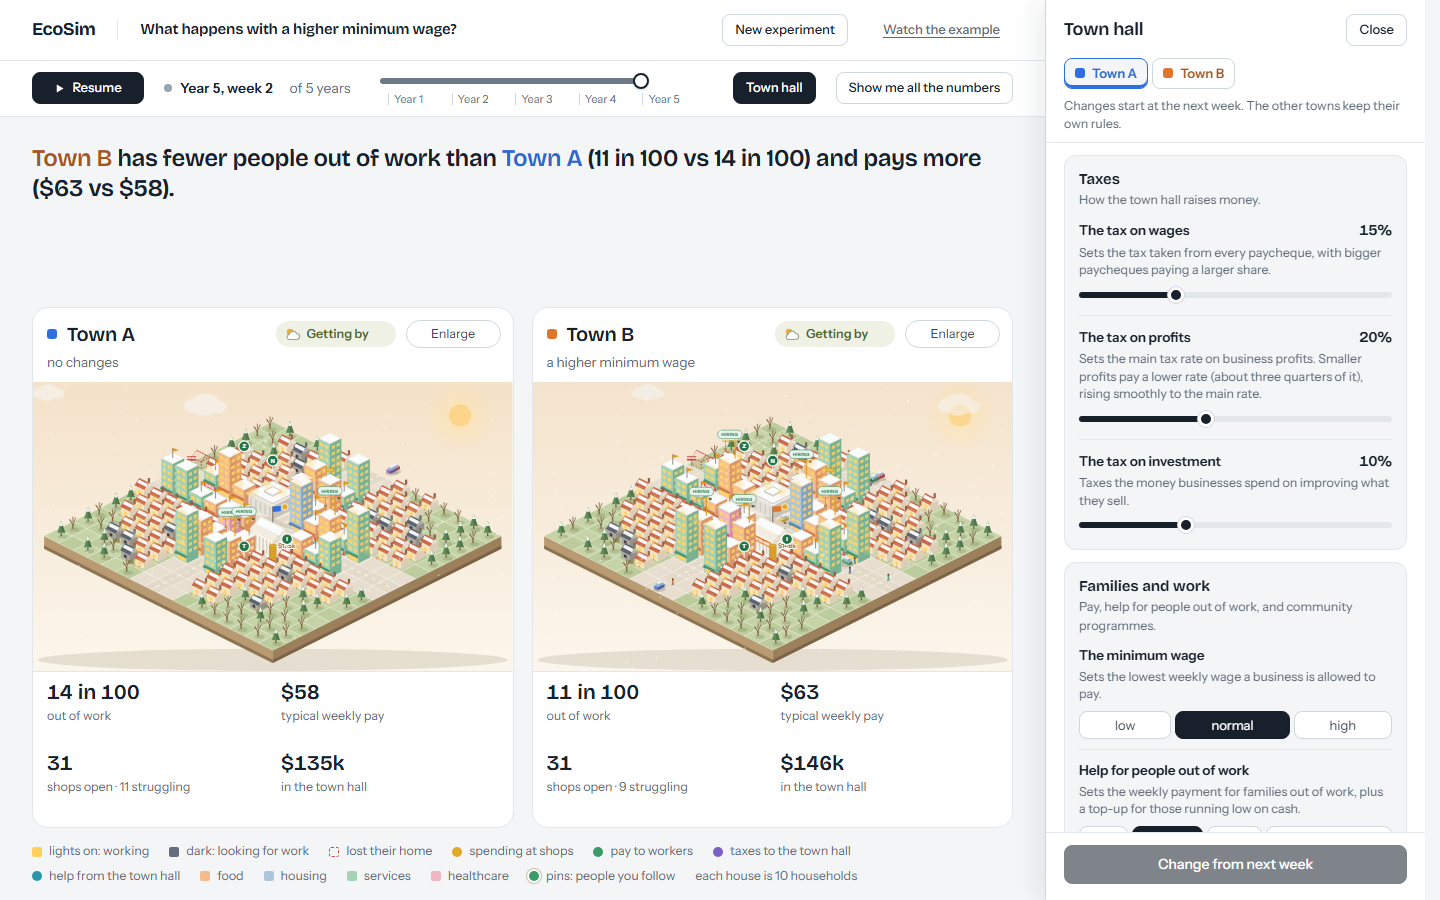
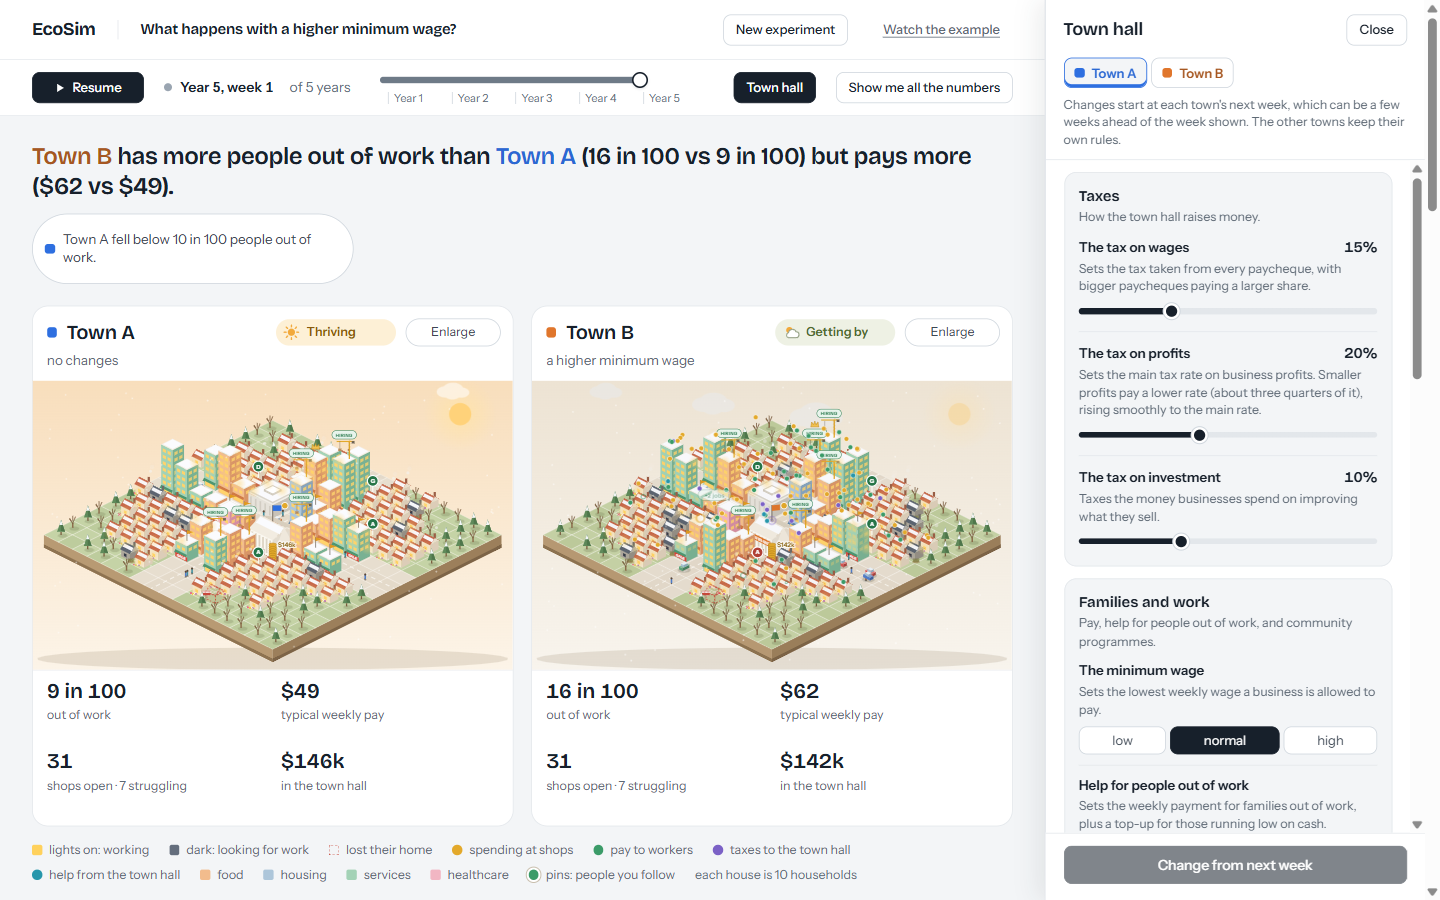
docs(readme): tighten wording and refresh town screenshots
Plainer README copy: shorter sentences, active voice, results split
into readable steps. New setup, run and town hall screenshots.

diff --git a/README.md b/README.md
@@ -5,7 +5,7 @@
 <h1 align="center">EcoSim</h1>
 
 <p align="center">
-  An agent-based economy you can run, steer, and replay, built to test economic policy and LLM policymakers under controlled conditions.
+  An agent-based economy simulator for comparing economic policies and LLM policymakers on the same random seed.
 </p>
 
 <p align="center">
@@ -13,7 +13,7 @@
   <a href="LICENSE"><img src="https://img.shields.io/badge/license-MIT-green.svg" alt="MIT license"></a>
 </p>
 
-EcoSim simulates thousands of households (benchmarked at 10,000) plus firms, a bank, and a government in weekly ticks. Households look for work, earn, spend, borrow, and react to prices and policy. Firms hire, produce, set prices, invest, and close. The government taxes, pays benefits, and spends through a fixed set of policy levers. Labor, goods, housing, healthcare, and credit markets all run inside the same tick.
+EcoSim simulates households, firms, a bank, and a government in weekly ticks. The benchmarks run 10,000 households. Households look for work, earn, spend, borrow, and react to prices and policy. Firms hire, produce, set prices, invest, and close. The government taxes, pays benefits, and spends through a fixed set of policy levers. Labor, goods, housing, healthcare, and credit markets all run inside the same tick.
 
 Run towns side by side, change taxes, benefits, and subsidies in the Town hall drawer, and compare what happens. Follow jobs, pay, prices, household finances, business activity, and town hall cash. Every run is seeded, so the same configuration gives the same trajectory, and every tick can be saved to SQLite, PostgreSQL, or TimescaleDB for analysis.
 
@@ -47,7 +47,7 @@ cd EcoSim
 docker compose up --build -d --wait
 ```
 
-Open http://localhost:5173/?view=next and click **Start the experiment** to compare two towns with the default minimum-wage question. You do not need Python, Node.js, API keys, or a database. Docker runs two containers: the FastAPI backend on port 8002 inside the network, and an Nginx build of the frontend that proxies `/ws` and `/health` to it. Runs are saved to SQLite in the `ecosim_runtime` volume.
+Open http://localhost:5173/?view=next and click **Start the experiment** to compare two towns with the default minimum-wage question. You do not need Python, Node.js, API keys, or a database. Docker runs two containers: the FastAPI backend on port 8002 inside the network, and an Nginx build of the frontend that proxies `/ws` and `/health` to it. The backend saves runs to SQLite in the `ecosim_runtime` volume.
 
 Stop it with `docker compose down`. Your saved runs stay in the volume. To delete them too, run `docker compose down --volumes --rmi local`. More cleanup commands are in [docs/TECHNICAL.md](docs/TECHNICAL.md#docker-storage-cleanup).
 
@@ -56,7 +56,7 @@ If port 5173 is taken, run `ECOSIM_PORT=5183 docker compose up --build -d --wait
 <details>
 <summary>Run from source</summary>
 
-You need Python 3.11 and Node.js 22 (22.22.2 or newer in the 22.x line).
+You need Python 3.11 and Node.js 22.22.2 or a later 22.x release.
 
 ```bash
 python3.11 -m venv .venv
@@ -82,18 +82,18 @@ Open the town view at http://localhost:5173/?view=next. Vite proxies `/ws` and `
 ## Using the town view
 
 1. **Set up.** Choose **Compare policies** for two to four towns or **Just play** for one town. Pick a question or **Build my own** to set each town's rules. Choose the households per town and a run length of 1, 2, 5, or 10 years. All towns share the same size and town number, which sets the random seed.
-2. **Run.** Start the experiment to run the towns side by side on the simulation. Pause, resume, or scrub the timeline to inspect earlier weeks. **Back to live** returns to the latest week.
+2. **Run.** Start the experiment to run the towns side by side. Pause, resume, or scrub the timeline to inspect earlier weeks. **Back to live** returns to the latest week.
 3. **Change rules.** Open **Town hall**, select a town, and edit its taxes, benefits, minimum wage, spending, or other rules. Click **Change from next week** to apply them. The other towns keep their own rules.
 4. **Compare.** The chart shows unemployment, pay, grocery spending, the wealth gap, or town hall cash over time. **Show me all the numbers** opens the sheet with prices, savings, business activity, town hall finances, loans, hardship, and wellbeing. Its numbers follow the timeline too.
 5. **Continue.** The end-of-run panel summarises the comparison. Click **Add a year** to keep the towns running, or try another question.
 
-The **Test an AI mayor** card is disabled and labelled **No AI model connected**. An AI mayor needs an LLM connection.
+The town view disables the **Test an AI mayor** card and labels it **No AI model connected**, because an AI mayor needs an LLM connection.
 
 ![Set-up screen with experiment modes, questions, town rules, population size, and run length](docs/assets/town-setup.png)
 
 **Watch the example** opens a recorded two-town run without a backend. Open http://localhost:5173/?view=next&demo and press **Play** to watch it directly.
 
-The classic analyst dashboard remains at http://localhost:5173/, with LLM policy controls in its Government view. With a connected provider, you can hand the government to an LLM and compare it against a rule-based baseline on the same seed; see [Configuration](#configuration).
+The classic analyst dashboard remains at http://localhost:5173/, with LLM policy controls in its Government view. With a connected provider, you can hand the government to an LLM and compare it against a rule-based baseline on the same seed. See [Configuration](#configuration).
 
 <details>
 <summary>More town views</summary>
@@ -118,7 +118,7 @@ flowchart TD
   PF["Policy forecasting package"] -.->|uses the engine as a library| ECO
 ```
 
-Each WebSocket connection gets its own simulation and random number generator, up to `ECOSIM_MAX_SESSIONS` (default 8). The town view uses one connection per town. One schema in `backend/policy_schema.py` defines every policy lever, and the frontend, runtime updates, and the LLM government all go through it. Policy changes apply at the next tick boundary. LLM calls run outside the tick loop, invalid proposals are rejected before they reach the simulation, and each decision is recorded with its evidence, accepted and rejected changes, latency, and provider.
+Each WebSocket connection gets its own simulation and random number generator, up to `ECOSIM_MAX_SESSIONS` (default 8). The town view uses one connection per town. One schema in `backend/policy_schema.py` defines every policy lever, and the frontend, runtime updates, and the LLM government all go through it. Policy changes apply at the next tick boundary. LLM calls run outside the tick loop. EcoSim rejects invalid proposals before they reach the simulation. It records each decision with its evidence, accepted and rejected changes, latency, and provider.
 
 | Part | Where |
 |---|---|
@@ -132,15 +132,15 @@ Each WebSocket connection gets its own simulation and random number generator, u
 | Forecasting | `policy_forecasting/` |
 | AWS batch runner | `ops/aws-runner/` |
 
-The WebSocket message format is documented in [docs/WEBSOCKET_PROTOCOL.md](docs/WEBSOCKET_PROTOCOL.md).
+[docs/WEBSOCKET_PROTOCOL.md](docs/WEBSOCKET_PROTOCOL.md) documents the WebSocket message format.
 
 ## Results
 
-**Tick performance.** At 10,000 households, changes to consumption planning cut p95 backend tick time from 6,156 ms in the baseline run to a median of 4,000 ms across five later runs on the same seed (3,906 to 4,078 ms), about 35%. A separate three-seed set measured 4,125 to 4,703 ms (median 4,625 ms, about 25%), so expect a 25 to 35% cut on this machine. The baseline is a single run. A regression snapshot at 1,500 households matched the pre-change output within 1e-6. Browser JSON parsing stays at 0.3 ms p95, so the remaining cost is in the backend. These are local workstation numbers from a benchmark that drives the production dashboard build in Chrome and saves every tick to SQLite, with the LLM government off. Ledgers: [5-run](benchmarks/results/2026-06-08-5run-full-app-evidence-ledger.md), [3-seed](benchmarks/results/2026-06-08-3seed-full-app-evidence-ledger.md), [isolated benchmarks](benchmarks/results/2026-05-17-optimized-performance.md).
+**Tick performance.** At 10,000 households, changes to consumption planning cut p95 backend tick time by about 35%. The baseline run measured 6,156 ms. Five later runs on the same seed had a median of 4,000 ms, with a range of 3,906 to 4,078 ms. A separate three-seed set measured 4,125 to 4,703 ms with a median of 4,625 ms, a cut of about 25%. Expect a 25 to 35% cut on this machine. The baseline is a single run. A regression snapshot at 1,500 households matched the pre-change output within 1e-6. Browser JSON parsing stays at 0.3 ms p95, so the remaining cost is in the backend. These are local workstation numbers. The benchmark drives the production dashboard build in Chrome and saves every tick to SQLite, with the LLM government off. Ledgers: [5-run](benchmarks/results/2026-06-08-5run-full-app-evidence-ledger.md), [3-seed](benchmarks/results/2026-06-08-3seed-full-app-evidence-ledger.md), [isolated benchmarks](benchmarks/results/2026-05-17-optimized-performance.md).
 
-**LLM government comparison.** Five LLMs (Granite 4.1 8B, Gemma 4 26B, Llama 3.3 70B, GPT-OSS 120B, Ring 2.6 1T) and a rule-based baseline each governed the same 1,000-household economy for 200 ticks on seed 42, deciding every 26 ticks. The policymaker was the only thing that changed. Results: [docs/experiments/AI_GOVERNMENT_EXPERIMENT.md](docs/experiments/AI_GOVERNMENT_EXPERIMENT.md). Harness: [`backend/tools/llm/run_llm_government_test.py`](backend/tools/llm/run_llm_government_test.py).
+**LLM government comparison.** Five LLMs and a rule-based baseline each governed the same 1,000-household economy for 200 ticks on seed 42, deciding every 26 ticks. The models were Granite 4.1 8B, Gemma 4 26B, Llama 3.3 70B, GPT-OSS 120B, and Ring 2.6 1T. The policymaker was the only thing that changed. The results are in [docs/experiments/AI_GOVERNMENT_EXPERIMENT.md](docs/experiments/AI_GOVERNMENT_EXPERIMENT.md), and the test script is [`backend/tools/llm/run_llm_government_test.py`](backend/tools/llm/run_llm_government_test.py).
 
-**Policy forecasting.** Six policy arms ran across 24 matched seeds for 80 ticks at 10,000 households. A gradient-boosting model predicted unemployment eight ticks ahead with R² 0.924 (MAE 0.028) on held-out runs and beat the persistence baseline by 0.080 MAE. The consumer-distress model did not beat persistence. Numbers come from [policy_forecasting/RESULTS.md](policy_forecasting/RESULTS.md); the design is in [docs/POLICY_FORECASTING_V1.md](docs/POLICY_FORECASTING_V1.md). The raw sweep artifacts are not committed, so these numbers cannot be reproduced from the repo alone.
+**Policy forecasting.** Six policy arms ran across 24 matched seeds for 80 ticks at 10,000 households. A gradient-boosting model predicted unemployment eight ticks ahead on held-out runs with an R² of 0.924 and an MAE of 0.028. It beat the persistence baseline by 0.080 MAE. The consumer-distress model did not beat persistence. The numbers come from [policy_forecasting/RESULTS.md](policy_forecasting/RESULTS.md), and the design is in [docs/POLICY_FORECASTING_V1.md](docs/POLICY_FORECASTING_V1.md). The repo does not include the raw sweep artifacts, so you cannot reproduce these numbers from the repo alone.
 
 ## Configuration
 
@@ -154,7 +154,7 @@ Runtime settings are environment variables, listed with defaults in [`.env.examp
 | `ECOSIM_MAX_SESSIONS` | `8` | Concurrent WebSocket sessions |
 | `OPENROUTER_API_KEY`, `GROQ_API_KEY` | unset | Hosted LLM keys |
 
-The LLM provider and the local LM Studio and Ollama endpoints are set in `LLMConfig` in [`backend/config.py`](backend/config.py), not in environment variables. The default provider is LM Studio at `http://127.0.0.1:8080`. A TimescaleDB Compose file is at [`ops/docker-compose.timescale.yml`](ops/docker-compose.timescale.yml).
+You set the LLM provider and the local LM Studio and Ollama endpoints in `LLMConfig` in [`backend/config.py`](backend/config.py), not with environment variables. The default provider is LM Studio at `http://127.0.0.1:8080`. A TimescaleDB Compose file is at [`ops/docker-compose.timescale.yml`](ops/docker-compose.timescale.yml).
 
 ## Development
 
@@ -174,7 +174,7 @@ npm run test
 npm run build
 ```
 
-Forecasting tests use their own pins: `pip install -r policy_forecasting/requirements.txt` then `python -m pytest policy_forecasting/tests -q`. CI also builds the Docker stack and runs a startup probe (`backend/tools/integration/smoke_startup.py`). Before a refactor that should not change results, save a golden with [`backend/tools/benchmarks/regression_snapshot.py`](backend/tools/benchmarks/regression_snapshot.py) and compare against it afterward. More detail: [docs/testing/README.md](docs/testing/README.md).
+Forecasting tests use their own pins: `pip install -r policy_forecasting/requirements.txt` then `python -m pytest policy_forecasting/tests -q`. CI also builds the Docker stack and runs the startup probe in `backend/tools/integration/smoke_startup.py`. Before a refactor that should not change results, save a golden with [`backend/tools/benchmarks/regression_snapshot.py`](backend/tools/benchmarks/regression_snapshot.py) and compare against it afterward. [docs/testing/README.md](docs/testing/README.md) has more detail.
 
 [`ops/aws-runner/`](ops/aws-runner/README.md) runs the 1,000-household benchmark once on a temporary EC2 instance, verifies the results after an S3 round trip, and removes the compute and IAM resources afterward. Its README covers permissions, cost, and cleanup.
 
